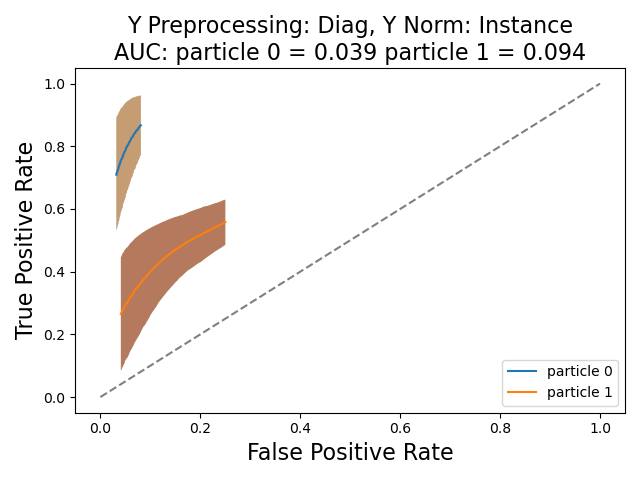
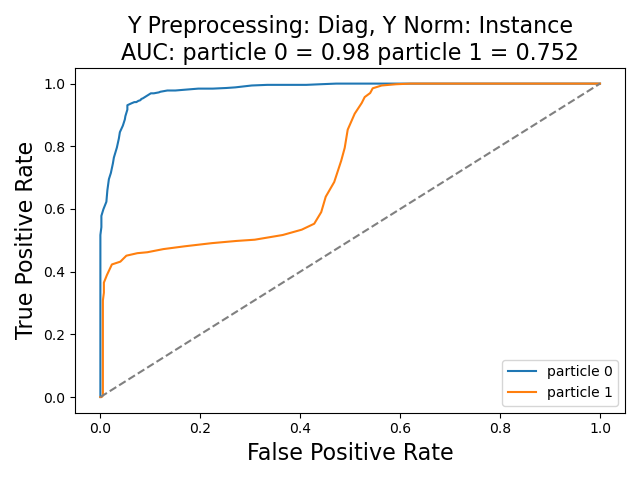
restructured scratch use

diff --git a/plotting_functions.py b/plotting_functions.py
@@ -1,6 +1,7 @@
 import os
 import os.path as osp
 import sys
+from shutil import rmtree
 
 import torch
 import torch.nn.functional as F
@@ -628,22 +629,37 @@ def plotROCCurve(val_dataloader, imagePath, model, opt):
     acc_array = np.zeros((51, opt.valN))
     model.eval()
     for i, data in enumerate(val_dataloader):
+        if opt.verbose:
+            print('Iteration: {}'.format(i))
         data = data.to(opt.device)
         y = data.y
         y = y.cpu().numpy().astype(bool)
         y_not = np.logical_not(y)
         yhat = model(data)
+        if opt.loss =='BCE':
+            # usincg BCE with logits loss, which combines sigmoid into loss
+            # so need to do sigmoid here
+            yhat = F.sigmoid(yhat)
         yhat = yhat.cpu().detach().numpy()
         minmax = data.minmax
         path = data.path[0]
+
+        positives = np.sum(y, 0)
+        negatives = np.sum(y_not, 0)
         for j,t in enumerate(thresholds):
+            if opt.verbose:
+                print('treshold: {}'.format(t))
             yhat_t = yhat > t
             tp = y & yhat_t
-            tpr = np.sum(tp, 0) / np.sum(y, 0)
+            tpr = np.sum(tp, 0) / positives
             fp = y_not & yhat_t
-            fpr = np.sum(fp, 0) / np.sum(y_not, 0)
+            fpr = np.sum(fp, 0) / negatives
             tpr_array[j, i] = tpr
             fpr_array[j, i] = fpr
+            if opt.verbose:
+                # print('yhat_t\n', yhat_t)
+                print('tp: {}, p: {}, tpr: {}'.format(np.sum(tp, 0), positives, tpr))
+                print('fp: {}, n: {}, fpr: {}\n'.format(np.sum(fp, 0), negatives, fpr))
 
             tn = y_not & np.logical_not(yhat_t)
             acc = np.sum(tp | tn) / opt.n / opt.k
@@ -686,10 +702,10 @@ def plotROCCurve(val_dataloader, imagePath, model, opt):
     print('ROC Curve Results:', file = opt.log_file)
     print(title, end = '\n\n', file = opt.log_file)
     max_t = np.argmax(acc_mean_array)
-    print('Max accuracy at t = {}: {} +- {}'.format(thresholds[max_t], acc_mean_array[max_t], acc_std_array[max_t]))
+    print('Max accuracy at t = {}: {} +- {}'.format(thresholds[max_t], acc_mean_array[max_t], acc_std_array[max_t]), file = opt.log_file)
     print('Corresponding FPR = {} +- {} and TPR = {} +- {}'.format(fpr_mean_array[max_t], fpr_std_array[max_t],
-                                                                    tpr_mean_array[max_t], tpr_std_array[max_t]))
-    print('ROC time: {}'.format(np.round (time.time() - t0, 3)))
+                                                                    tpr_mean_array[max_t], tpr_std_array[max_t]), file = opt.log_file)
+    print('ROC time: {}'.format(np.round (time.time() - t0, 3)), file = opt.log_file)
 
 def updateResultTables(model_type = None, mode = None):
     if model_type is None:
@@ -822,7 +838,7 @@ def main():
     plotting_script(None, opt)
 
     # cleanup
-    if opt.root is not None:
+    if opt.root is not None and opt.delete_root:
         rmtree(opt.root)
 
 if __name__ == '__main__':

diff --git a/neural_net_utils/utils.py b/neural_net_utils/utils.py
@@ -56,7 +56,7 @@ def getModel(opt):
 # dataset functions
 def getDataset(opt):
     if opt.GNN_mode:
-        dataset = ContactsGraph(opt.data_folder, opt.n, opt.y_preprocessing,
+        dataset = ContactsGraph(opt.data_folder, opt.root_name, opt.n, opt.y_preprocessing,
                                             opt.y_norm, opt.min_subtraction, opt.use_node_features,
                                             transform = opt.transforms_processed)
         opt.root = dataset.root
@@ -441,6 +441,8 @@ def getBaseParser():
 
     # pre-processing args
     parser.add_argument('--data_folder', type=str, default='dataset_04_18_21', help='Location of data')
+    parser.add_argument('--root_name', type=str, help='name of file to save graph data (leave as None to create root automatically) (root is the directory path - defined later)')
+    parser.add_argument('--delete_root', type=str2bool, default=True, help='True to delete root directory after runtime')
     parser.add_argument('--toxx', type=str2bool, default=False, help='True if x should be converted to 2D image')
     parser.add_argument('--toxx_mode', type=str, default='mean', help='mode for toxx (default mean)')
     parser.add_argument('--y_preprocessing', type=str2None, default='diag', help='type of pre-processing for y')
@@ -514,6 +516,7 @@ def getBaseParser():
     return parser
 
 def finalizeOpt(opt, parser, local = False):
+    print(opt)
     # local is a flag to overide some commands when working locally
     # set up output folders/files
     model_type_folder = osp.join('results', opt.model_type)
@@ -533,7 +536,9 @@ def finalizeOpt(opt, parser, local = False):
         txt_file = osp.join(model_type_folder, str(opt.id), 'argparse.txt')
         assert osp.exists(txt_file), "{} does not exist".format(txt_file)
         id_copy = opt.id
-        opt = parser.parse_args(sys.argv.append('@{}'.format(txt_file))) # parse again
+        opt = parser.parse_args(sys.argv.insert(1, '@{}'.format(txt_file))) # parse again
+        # by inserting at position 1, the original arguments will override the txt file
+        print(sys.argv)
         opt.id = id_copy
 
 

diff --git a/neural_net_utils/dataset_classes.py b/neural_net_utils/dataset_classes.py
@@ -127,7 +127,7 @@ class Sequences2Contacts(Dataset):
 
 class ContactsGraph(torch_geometric.data.Dataset):
     # How to backprop through model after converting to GNN: https://github.com/rusty1s/pytorch_geometric/issues/1511
-    def __init__(self, dirname, n, y_preprocessing, y_norm, min_subtraction, use_node_features, transform, pre_transform = None):
+    def __init__(self, dirname, root_name, n, y_preprocessing, y_norm, min_subtraction, use_node_features, transform, pre_transform = None):
         t0 = time.time()
         self.n = n
         self.dirname = dirname
@@ -146,18 +146,20 @@ class ContactsGraph(torch_geometric.data.Dataset):
             self.ymin = 0
             self.ymax = 1
 
-        # find any currently existing graph data folders
-        # make new folder for this dataset
-        max_val = -1
-        for file in os.listdir(dirname):
-            file_path = osp.join(dirname, file)
-            if file.startswith('graphs') and osp.isdir(file_path):
-                # format is graphs### where ### is number
-                val = int(file[6:])
-                if val > max_val:
-                    max_val = val
-
-        self.root = osp.join(dirname, 'graphs{}'.format(max_val+1))
+        if root_name is None:
+            # find any currently existing graph data folders
+            # make new folder for this dataset
+            max_val = -1
+            for file in os.listdir(dirname):
+                file_path = osp.join(dirname, file)
+                if file.startswith('graphs') and osp.isdir(file_path):
+                    # format is graphs### where ### is number
+                    val = int(file[6:])
+                    if val > max_val:
+                        max_val = val
+            self.root = osp.join(dirname, 'graphs{}'.format(max_val+1))
+        else:
+            self.root = osp.join(dirname, root_name)
         super(ContactsGraph, self).__init__(self.root, transform, pre_transform)
         print('graph init time: {}'.format(np.round(time.time() - t0, 3)))
 

diff --git a/cleanDirectories.py b/cleanDirectories.py
@@ -1,0 +1,26 @@
+import os.path as osp
+from shutil import rmtree
+
+import argparse
+
+def main():
+    parser = argparse.ArgumentParser(description='Simple parser')
+    parser.add_argument('--data_folder', type=str, default='dataset_04_18_21', help='Location of data')
+    parser.add_argument('--root_name', type=str, help='name of file graph data was saved to')
+    parser.add_argument('--use_scratch', type=str2bool, default=False, help='True if data was moved to scratch')
+    opt = parser.parse_args()
+
+    if opt.use_scratch:
+        opt.data_folder = osp.join('/../../../scratch/midway2/erschultz', osp.split(opt.data_folder)[-1])
+
+    root = osp.join(opt.data_folder, root_name)
+
+    if osp.exists(root):
+        print('Removing {}'.format(root))
+        rmtree(root)
+    else:
+        print('{} does not exist'.format(root))
+
+
+if __name__ == '__main__':
+    main()

diff --git a/core_test_train.py b/core_test_train.py
@@ -71,7 +71,7 @@ def core_test_train(model, opt):
 
     # cleanup
     opt.log_file.close()
-    if opt.root is not None:
+    if opt.root is not None and opt.delete_root:
         rmtree(opt.root)
 
 def train(train_loader, val_dataloader, model, opt, ofile = sys.stdout):
